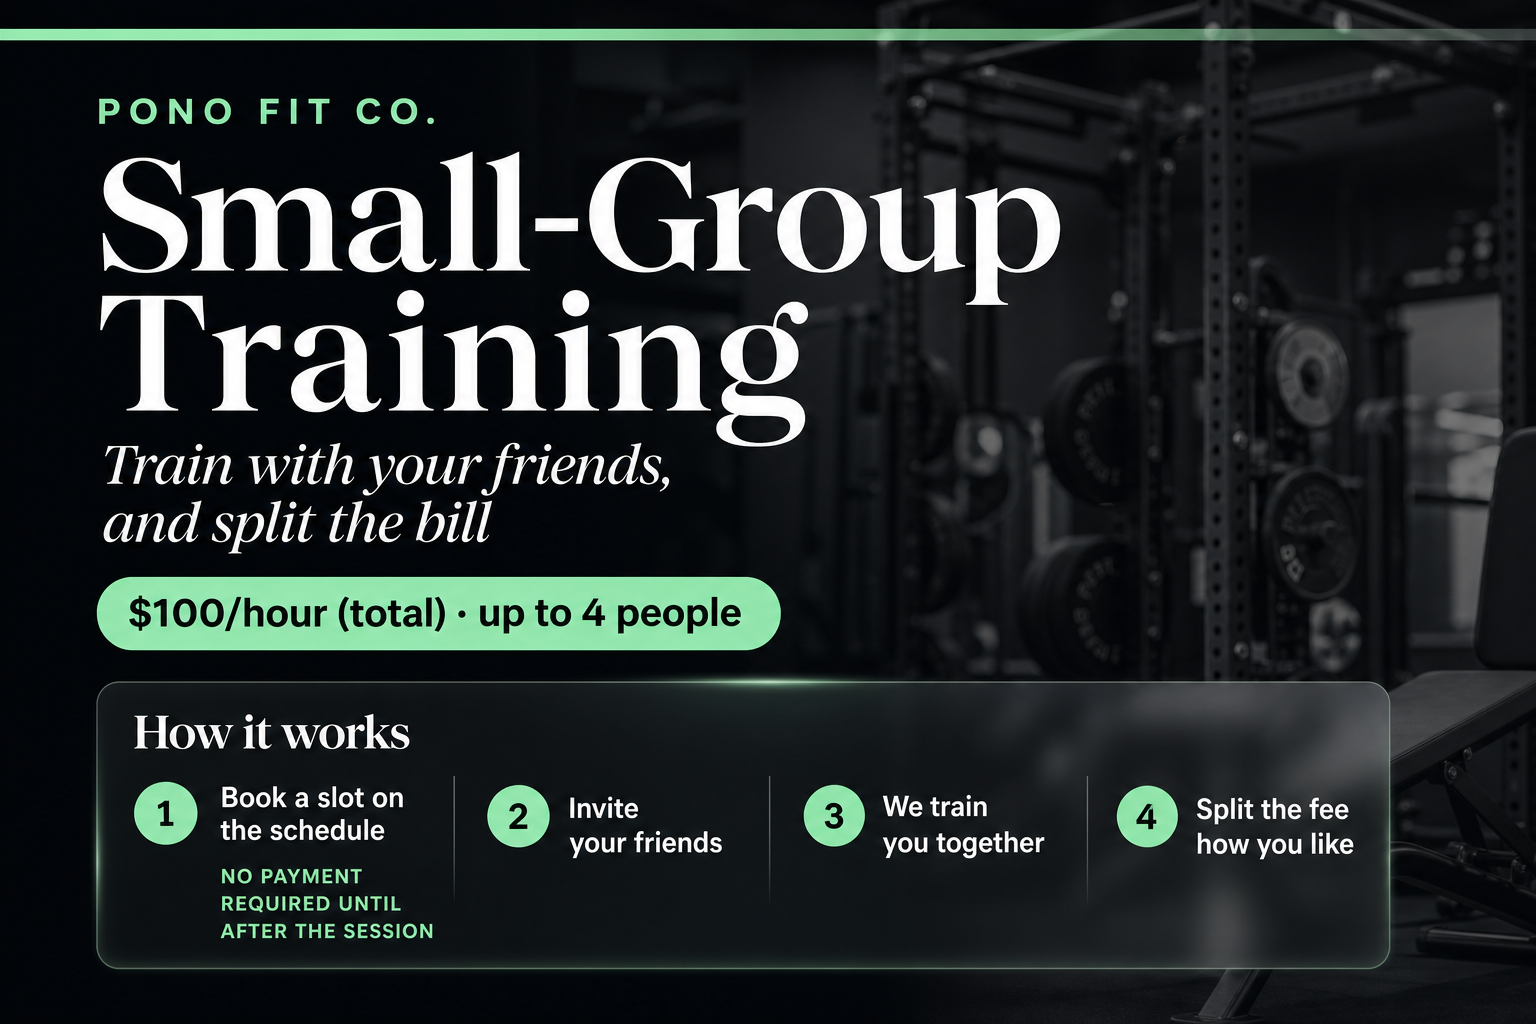
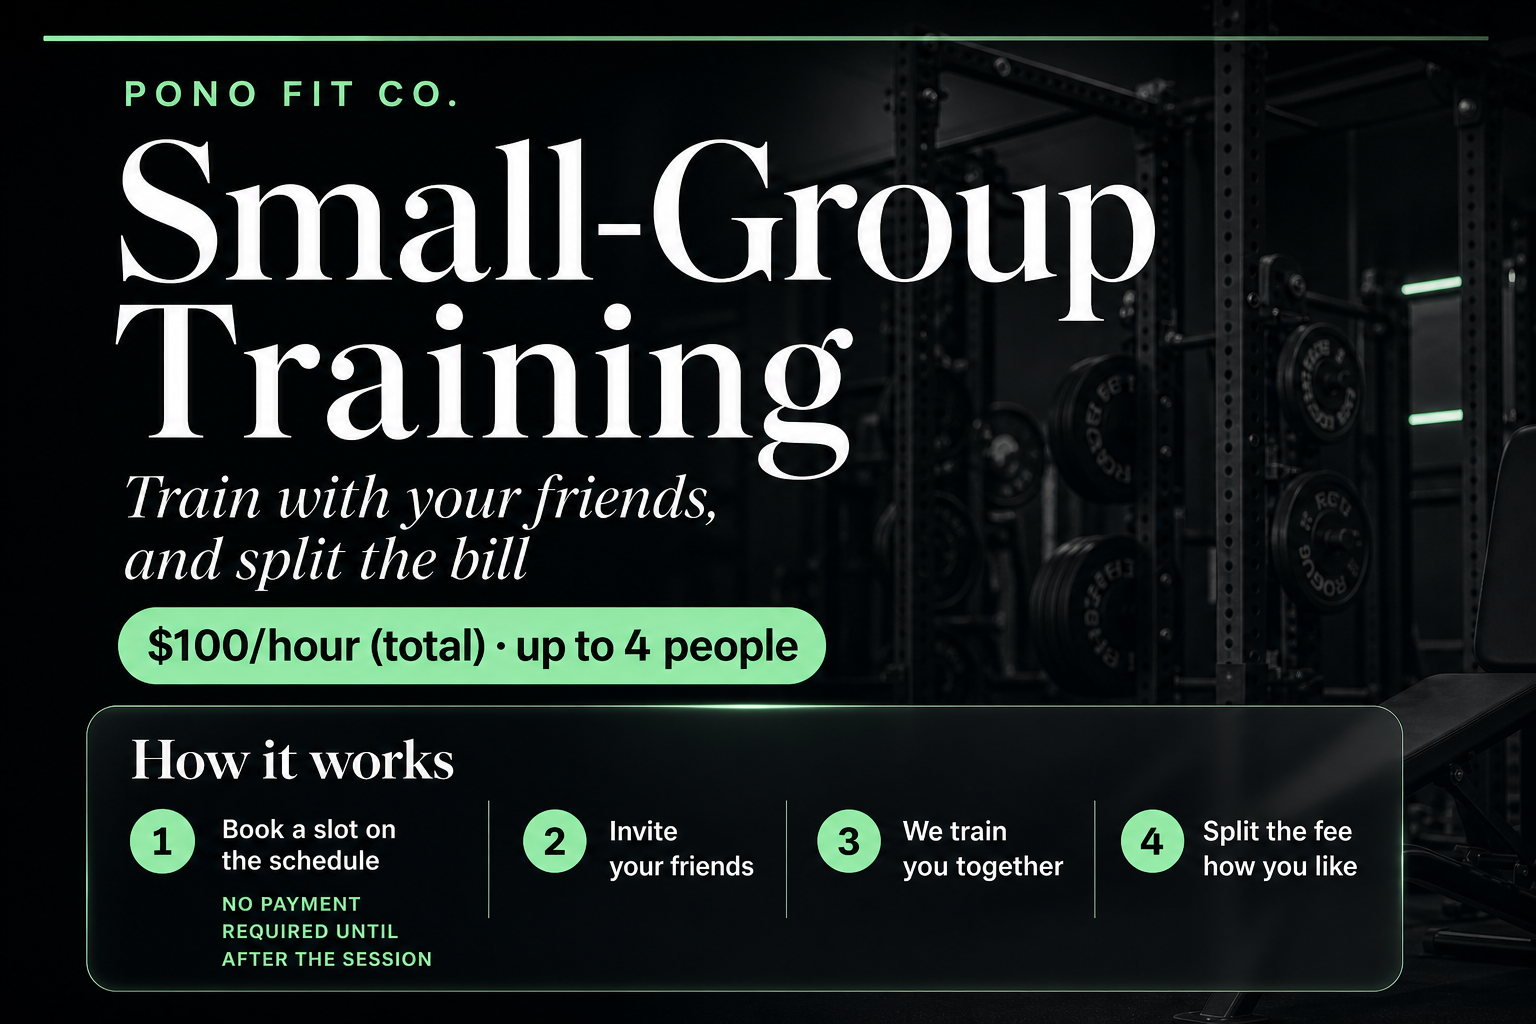
added a way to see members unmatched to sub who are on autorenew

diff --git a/src/lib/mrr.ts b/src/lib/mrr.ts
@@ -135,22 +135,107 @@ function countAutoRenewFlagMembers(db: AppDb): number {
   return row?.c ?? 0;
 }
 
-/** auto_renew=1 on member but no active monthly sub (missing subscription or plan link). */
-function countAutoRenewUnmatchedMembers(db: AppDb, matchedMemberIds: Set<string>): number {
+export type AutoRenewUnmatchedMember = {
+  member_id: string;
+  first_name: string | null;
+  last_name: string | null;
+  email: string | null;
+  reason: string;
+  detail: string | null;
+};
+
+function diagnoseAutoRenewUnmatched(
+  subs: {
+    status: string | null;
+    plan_name: string | null;
+    unit: string | null;
+    product_id: string | null;
+    plan_linked: number;
+  }[]
+): { reason: string; detail: string | null } {
+  if (subs.length === 0) {
+    return { reason: "No subscription", detail: null };
+  }
+
+  const active = subs.filter((s) => String(s.status ?? "").trim().toLowerCase() === "active");
+  if (active.length === 0) {
+    const statuses = [...new Set(subs.map((s) => String(s.status ?? "—").trim() || "—"))].join(", ");
+    return { reason: "No active subscription", detail: `Status on file: ${statuses}` };
+  }
+
+  const activeMonthly = active.filter((s) => String(s.unit ?? "").trim().toLowerCase() === "month");
+  if (activeMonthly.length === 0) {
+    const bits = active.map((s) => {
+      const name = String(s.plan_name ?? s.product_id ?? "—").trim();
+      const unit = String(s.unit ?? "—").trim();
+      return `${name} (${unit})`;
+    });
+    return { reason: "Active sub is not monthly", detail: bits.join("; ") };
+  }
+
+  const linkedMonthly = activeMonthly.filter((s) => Number(s.plan_linked) === 1);
+  if (linkedMonthly.length === 0) {
+    const bits = activeMonthly.map((s) => {
+      const pid = String(s.product_id ?? "").trim() || "—";
+      return `${String(s.plan_name ?? "Monthly plan").trim()} · product_id ${pid} (no matching plan row)`;
+    });
+    return { reason: "Plan link missing", detail: bits.join("; ") };
+  }
+
+  return { reason: "Not in recurring pool", detail: "Check paused or data sync" };
+}
+
+/** Members with auto_renew=1 but no row in loadAutoRenewMonthlySubscriptionRows (not in MRR / Monthly recurring). */
+export function loadAutoRenewUnmatchedMembers(db: AppDb): AutoRenewUnmatchedMember[] {
+  const matched = getAutoRenewMonthlyMemberIds(db);
   ensureMembersAutoRenewColumn(db);
   ensureMembersAccountDeletedAtColumn(db);
+
   const flagged = db
     .prepare(
-      `SELECT member_id FROM members
+      `SELECT member_id, first_name, last_name, email FROM members
        WHERE COALESCE(auto_renew, 0) = 1
-         AND (account_deleted_at IS NULL OR TRIM(COALESCE(account_deleted_at, '')) = '')`
+         AND (account_deleted_at IS NULL OR TRIM(COALESCE(account_deleted_at, '')) = '')
+       ORDER BY last_name ASC, first_name ASC`
     )
-    .all() as { member_id: string }[];
-  let unmatched = 0;
-  for (const { member_id } of flagged) {
-    if (!matchedMemberIds.has(member_id)) unmatched++;
+    .all() as {
+      member_id: string;
+      first_name: string | null;
+      last_name: string | null;
+      email: string | null;
+    }[];
+
+  const subStmt = db.prepare(
+    `SELECT s.status, s.product_id, p.plan_name, p.unit,
+            CASE WHEN p.id IS NULL THEN 0 ELSE 1 END AS plan_linked
+     FROM subscriptions s
+     LEFT JOIN membership_plans p ON ${MEMBERSHIP_PLAN_JOIN_SQL}
+     WHERE s.member_id = ?
+     ORDER BY CASE WHEN LOWER(TRIM(COALESCE(s.status, ''))) = 'active' THEN 0 ELSE 1 END,
+              s.start_date DESC`
+  );
+
+  const out: AutoRenewUnmatchedMember[] = [];
+  for (const m of flagged) {
+    if (matched.has(m.member_id)) continue;
+    const subs = subStmt.all(m.member_id) as {
+      status: string | null;
+      plan_name: string | null;
+      unit: string | null;
+      product_id: string | null;
+      plan_linked: number;
+    }[];
+    const { reason, detail } = diagnoseAutoRenewUnmatched(subs);
+    out.push({
+      member_id: m.member_id,
+      first_name: m.first_name,
+      last_name: m.last_name,
+      email: m.email,
+      reason,
+      detail,
+    });
   }
-  return unmatched;
+  return out;
 }
 
 export function computeMrrSummary(db: AppDb): {
@@ -164,6 +249,7 @@ export function computeMrrSummary(db: AppDb): {
   autoRenewFlagCount: number;
   /** auto_renew=1 but not in autoRenewMemberCount (data gap to investigate). */
   autoRenewUnmatchedCount: number;
+  autoRenewUnmatched: AutoRenewUnmatchedMember[];
 } {
   const rows = loadAutoRenewMonthlySubscriptionRows(db);
   const autoRenewIds = new Set<string>();
@@ -180,12 +266,14 @@ export function computeMrrSummary(db: AppDb): {
   }
 
   const autoRenewFlagCount = countAutoRenewFlagMembers(db);
+  const autoRenewUnmatched = loadAutoRenewUnmatchedMembers(db);
 
   return {
     mrr: Math.round(mrr * 100) / 100,
     autoRenewMemberCount: autoRenewIds.size,
     autoRenewBillableMemberCount: autoRenewBillableIds.size,
     autoRenewFlagCount,
-    autoRenewUnmatchedCount: countAutoRenewUnmatchedMembers(db, autoRenewIds),
+    autoRenewUnmatchedCount: autoRenewUnmatched.length,
+    autoRenewUnmatched,
   };
 }

diff --git a/src/app/sales/page.tsx b/src/app/sales/page.tsx
@@ -26,6 +26,14 @@ type Report = {
   mrrBillableMemberCount?: number;
   autoRenewFlagCount?: number;
   autoRenewUnmatchedCount?: number;
+  autoRenewUnmatched?: {
+    member_id: string;
+    first_name: string | null;
+    last_name: string | null;
+    email: string | null;
+    reason: string;
+    detail: string | null;
+  }[];
   from: string | null;
   to: string | null;
 } | null;
@@ -330,6 +338,33 @@ export default function SalesPage() {
                   </>
                 ) : null}
               </p>
+              {(report.autoRenewUnmatchedCount ?? 0) > 0 && (report.autoRenewUnmatched?.length ?? 0) > 0 ? (
+                <div className="mt-4 rounded-lg border border-amber-200 bg-amber-50/80 p-3 text-left">
+                  <p className="text-xs font-semibold text-amber-950 mb-2">
+                    Auto-renew on file, not in Monthly recurring ({report.autoRenewUnmatched!.length})
+                  </p>
+                  <ul className="space-y-2 max-h-48 overflow-y-auto text-xs text-amber-950">
+                    {report.autoRenewUnmatched!.map((m) => {
+                      const name =
+                        [m.first_name, m.last_name].filter(Boolean).join(" ").trim() || m.member_id;
+                      return (
+                        <li key={m.member_id} className="border-b border-amber-100/80 pb-2 last:border-0 last:pb-0">
+                          <Link
+                            href={`/members/${encodeURIComponent(m.member_id)}`}
+                            className="font-medium text-brand-800 hover:underline"
+                          >
+                            {name}
+                          </Link>
+                          <span className="text-amber-900/80"> · {m.reason}</span>
+                          {m.detail ? (
+                            <span className="block text-amber-900/70 mt-0.5">{m.detail}</span>
+                          ) : null}
+                        </li>
+                      );
+                    })}
+                  </ul>
+                </div>
+              ) : null}
             </div>
           </div>
           <div className="rounded-xl border border-stone-200 bg-white overflow-x-auto">

diff --git a/src/app/api/admin/sales-report/route.ts b/src/app/api/admin/sales-report/route.ts
@@ -319,6 +319,7 @@ export async function GET(request: NextRequest) {
       mrrBillableMemberCount: mrrSummary.autoRenewBillableMemberCount,
       autoRenewFlagCount: mrrSummary.autoRenewFlagCount,
       autoRenewUnmatchedCount: mrrSummary.autoRenewUnmatchedCount,
+      autoRenewUnmatched: mrrSummary.autoRenewUnmatched,
       from: hasRange ? from : null,
       to: hasRange ? to : null,
     });